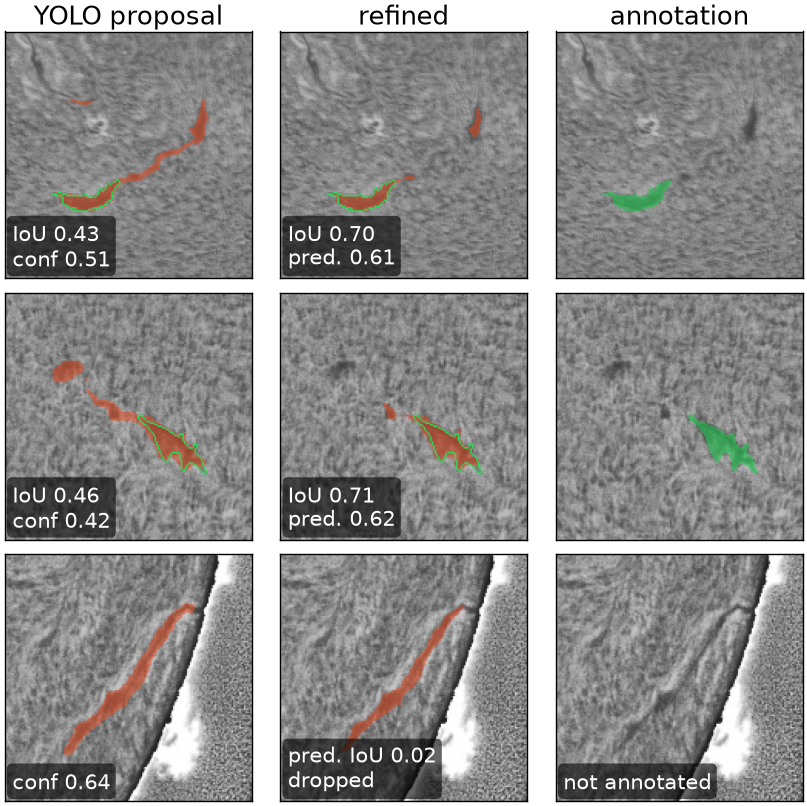
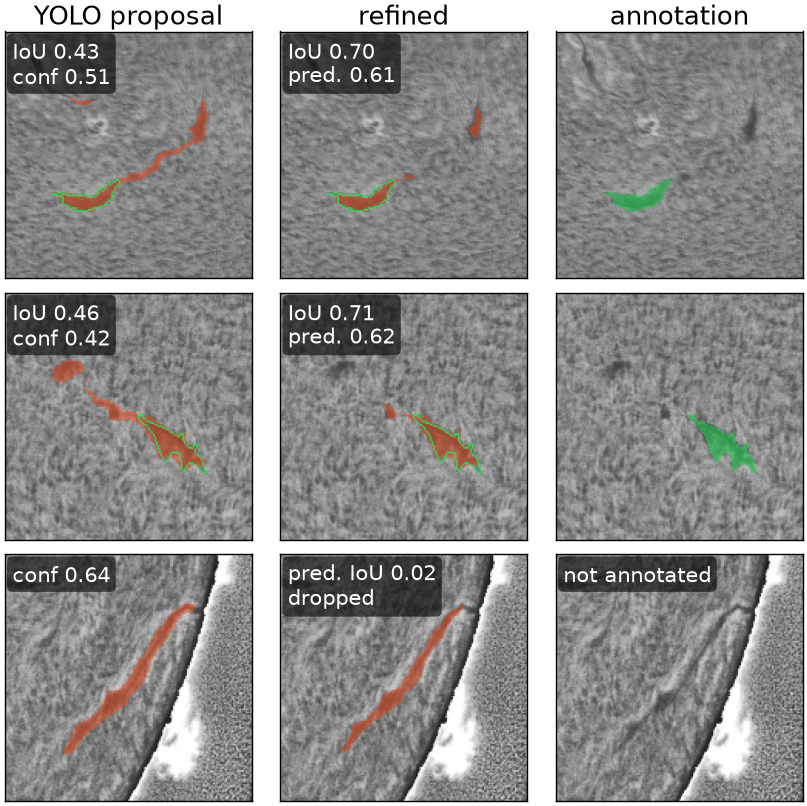
Refiner figure: labels top left

diff --git a/Azumah/scripts/make_refiner_strip.py b/Azumah/scripts/make_refiner_strip.py
@@ -118,7 +118,7 @@ def panel(ax, g, m, outline=None, color=RED):
 
 
 def tag(ax, text):
-    ax.text(0.03, 0.03, text, transform=ax.transAxes, ha="left", va="bottom", fontsize=6.2, color="white",
+    ax.text(0.03, 0.97, text, transform=ax.transAxes, ha="left", va="top", fontsize=6.2, color="white",
             linespacing=1.15, bbox=dict(boxstyle="round,pad=0.25", fc="black", ec="none", alpha=0.6))
 
 
